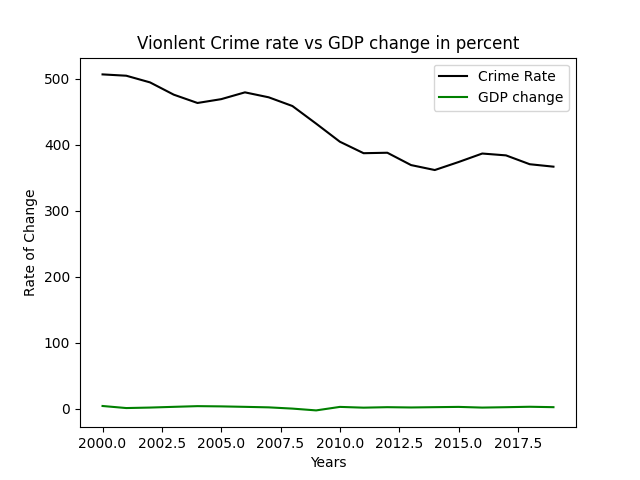
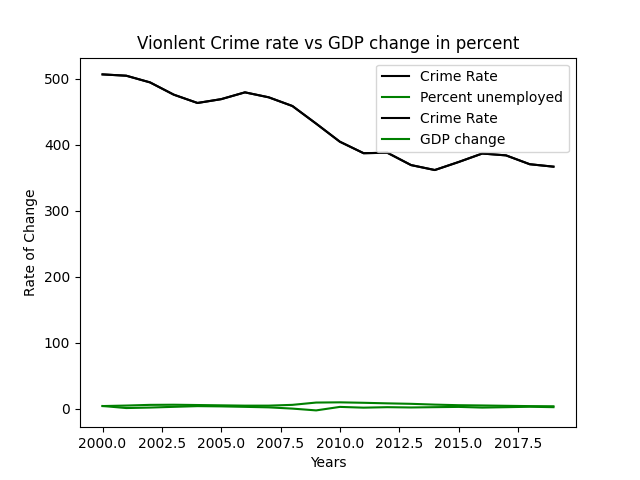
added unemployment vs crime rate

diff --git a/wf_visualization.py b/wf_visualization.py
@@ -1,3 +1,4 @@
+from cProfile import label
 import matplotlib.pyplot as plt
 import numpy as np
 from wf_dataprocessing import *
@@ -20,11 +21,27 @@ def violent_vs_gdp(violent_crimes_list, gdp_list):
 
     plt.savefig(filename)
 
-    
+def violent_vs_umemployment(violent_crimes_list, unemployment_list):
+    crimes = np.array(violent_crimes_list)
+    employment = np.array(unemployment_list)
+
+    plt.plot(global_years_names_list, crimes, c ='black', label = 'Crime Rate')
+    plt.plot(global_years_names_list, employment, c = 'green', label = 'Percent unemployed')
+    plt.legend()
+    plt.title("unemployment rate vs crime rate")
+    plt.xlabel('Years')
+    filename = 'visuals/violentCrime_vs_unemployment.png'
+
+    plt.savefig(filename)
+
+    pass
 
 if __name__ == '__main__':
     gdp_data = get_gdp_data()
     crime_data = get_crime_data()
+    unemplyment_data = get_unemplyment_data()
+
+    violent_vs_umemployment(crime_data, unemplyment_data)
 
     violent_vs_gdp(crime_data, gdp_data)
 
